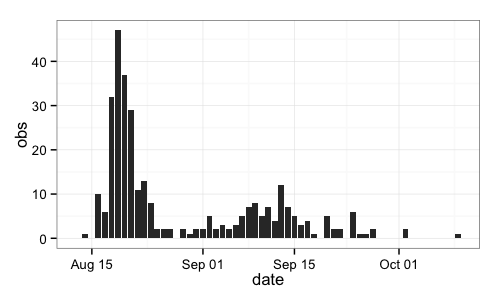
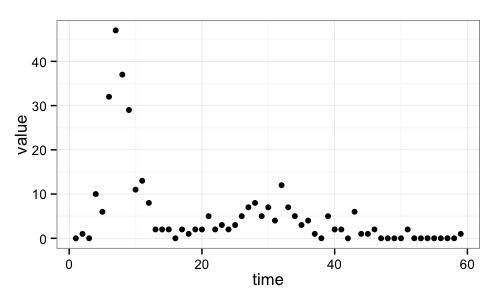
update play with SEITL

diff --git a/knitr/example_mcmc_SEITL.html b/knitr/example_mcmc_SEITL.html
@@ -45,10 +45,10 @@ code > span.er { color: #ff0000; font-weight: bold; }
 </div>
 <p>Here is an example of possible answers to the practical on fitting the deterministic SEITL model to the Tristan da Cunha outbreak.</p>
 <p>Each section below correspond to a section of the practical. Thus, you can have a look at our example for one section and then go back to the practical to answer the following sections.</p>
-<p>Although our example refers to the SEITL model, the same commands work for the SEIT2L model (i.e. <code>example(SEIT2L_deter)</code> instead of <code>example(SEITL_deter)</code>).</p>
+<p>Although our example refers to the SEITL model, the same commands work for the SEIT2L model (i.e. <code>example(SEIT2L_deterministic)</code> instead of <code>example(SEITL_deterministic)</code>).</p>
 <h1 id="setting-the-mcmc">Setting the MCMC</h1>
 <pre class="sourceCode r"><code class="sourceCode r"><span class="co"># the fitmodel</span>
-<span class="kw">example</span>(SEITL_deter)
+<span class="kw">example</span>(SEITL_deterministic)
 
 <span class="co"># wrapper for posterior</span>
 my_posteriorTdC &lt;-<span class="st"> </span>function(theta) {
@@ -303,18 +303,18 @@ trace &lt;-<span class="st"> </span><span class="kw">mcmc.list</span>(<span clas
 ##            rho      log.prior log.likelihood  log.posterior 
 ##           7164              0           5612           5612
 
-<span class="co"># thinning</span>
+<span class="co"># autocorrelation</span>
 <span class="kw">acfplot</span>(trace.burn)</code></pre>
 <p><img src="figure/SEITL_model_example/long-run-burn.png" title="" alt="" style="display: block; margin: auto;" /></p>
 <p>Again, given the very high ESS, we can be quite generous in our choice of the thinning.</p>
-<pre class="sourceCode r"><code class="sourceCode r"><span class="co"># let&#39;s keep 1 iteration every 40</span>
+<pre class="sourceCode r"><code class="sourceCode r"><span class="co"># Thinning: let&#39;s keep 1 iteration every 40</span>
 trace.burn.thin &lt;-<span class="st"> </span><span class="kw">burnAndThin</span>(trace.burn, <span class="dt">thin =</span> <span class="dv">40</span>)
 <span class="kw">xyplot</span>(trace.burn.thin)</code></pre>
 <p><img src="figure/SEITL_model_example/long-run-thin.png" title="" alt="" style="display: block; margin: auto;" /> However, let's compare the thinned and unthinnned distributions.</p>
-<pre class="sourceCode r"><code class="sourceCode r"><span class="co"># Note that plotPosteriorDensity can&#39;t take a list of mcmc.list.  Instead,</span>
-<span class="co"># we pass the unthinned and thinned traces of the chain that started at</span>
-<span class="co"># theta1</span>
-<span class="kw">plotPosteriorDensity</span>(<span class="kw">list</span>(<span class="dt">unthinned =</span> trace.burn[[<span class="dv">1</span>]], <span class="dt">thinned =</span> trace.burn.thin[[<span class="dv">1</span>]]))</code></pre>
+<pre class="sourceCode r"><code class="sourceCode r"><span class="co"># Note that plotPosteriorDensity can take a list of mcmc.list and will plot</span>
+<span class="co"># the different mcmc.list by combining their elements Let&#39;s plot the</span>
+<span class="co"># combined unthinned trace vs the combined thinned trace.</span>
+<span class="kw">plotPosteriorDensity</span>(<span class="kw">list</span>(<span class="dt">unthinned =</span> trace.burn, <span class="dt">thinned =</span> trace.burn.thin))</code></pre>
 <p><img src="figure/SEITL_model_example/long-run-compare-thin.png" title="" alt="" style="display: block; margin: auto;" /></p>
 <p>In contrast to the previous short-run, they are almost no difference between the thinned and unthinned chains. Indeed, with such a long chain, the clumpy autocorrelation has been averaged out!</p>
 <p>In fact, there are several references that show that the longer (unthinned) chain usually yields better estimates of the true posterior than the shorter thinned chain, even for percentiles in the tail of the distribution. That said, thinning can be useful for other reasons, such as memory or time constraints in post-chain processing.</p>

diff --git a/knitr/play_with_seitl.html b/knitr/play_with_seitl.html
@@ -71,16 +71,17 @@ code > span.er { color: #ff0000; font-weight: bold; }
 <p>Among the 284 islanders, 273 (96%) experienced at least one attack and 92 (32%) experienced two attacks. Unfortunately, only 312 of the 365 attacks (85%) are known to within a single day of accuracy and constitute the dataset reported by Mantle &amp; Tyrrell in 1973 (ref:Mantle1973}.</p>
 <p>The dataset of daily incidence can be loaded and plotted as follows:</p>
 <pre class="sourceCode r"><code class="sourceCode r"><span class="kw">data</span>(FluTdC1971)
-<span class="kw">head</span>(FluTdC1971)</code></pre>
-<pre><code>##         date time obs
+<span class="kw">head</span>(FluTdC1971)
+##         date time obs
 ## 1 1971-08-13    1   0
 ## 2 1971-08-14    2   1
 ## 3 1971-08-15    3   0
 ## 4 1971-08-16    4  10
 ## 5 1971-08-17    5   6
-## 6 1971-08-18    6  32</code></pre>
-<pre class="sourceCode r"><code class="sourceCode r"><span class="kw">ggplot</span>(<span class="dt">data =</span> FluTdC1971, <span class="kw">aes</span>(<span class="dt">x =</span> date, <span class="dt">y =</span> obs)) +<span class="st"> </span><span class="kw">geom_bar</span>(<span class="dt">stat =</span> <span class="st">&quot;identity&quot;</span>) +<span class="st"> </span>
-<span class="st">    </span><span class="kw">theme_bw</span>()</code></pre>
+## 6 1971-08-18    6  32
+
+<span class="co"># plot daily observed incidence</span>
+<span class="kw">plotTraj</span>(<span class="dt">data =</span> FluTdC1971)</code></pre>
 <p><img src="figure/SEITL_model/data.png" title="" alt="" style="display: block; margin: auto;" /></p>
 <h1 id="seitl-model">SEITL model</h1>
 <p>One possible explanation for the rapid reinfections reported during this two-wave outbreak is that following recovery from a first infection, some islanders did not develop a long-term protective immunity and remained fully susceptible to reinfection by the same influenza strain that was still circulating. This can be modelled as follows:</p>

diff --git a/knitr/play_with_seitl.md b/knitr/play_with_seitl.md
@@ -33,9 +33,6 @@ The dataset of daily incidence can be loaded and plotted as follows:
 ```r
 data(FluTdC1971)
 head(FluTdC1971)
-```
-
-```
 ##         date time obs
 ## 1 1971-08-13    1   0
 ## 2 1971-08-14    2   1
@@ -43,11 +40,9 @@ head(FluTdC1971)
 ## 4 1971-08-16    4  10
 ## 5 1971-08-17    5   6
 ## 6 1971-08-18    6  32
-```
 
-```r
-ggplot(data = FluTdC1971, aes(x = date, y = obs)) + geom_bar(stat = "identity") + 
-    theme_bw()
+# plot daily observed incidence
+plotTraj(data = FluTdC1971)
 ```
 
 <img src="figure/SEITL_model/data.png" title="" alt="" style="display: block; margin: auto;" />
